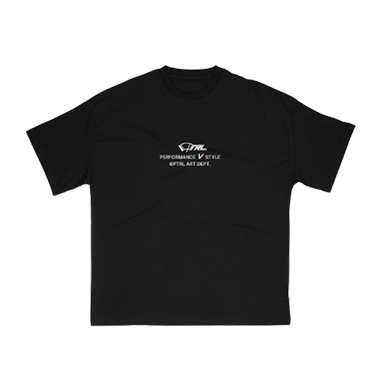
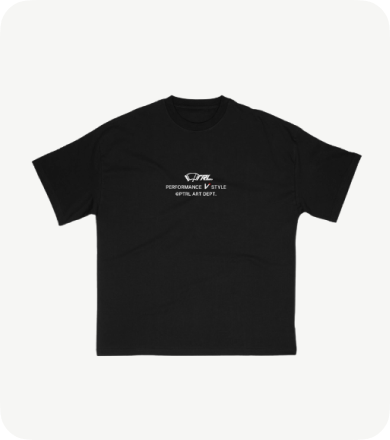
fix: product imgs and topbar padding

diff --git a/src/pages/home.tsx b/src/pages/home.tsx
@@ -1,7 +1,7 @@
 export default function HomePage() {
     return (
         <main className="">
-            <header className="flex xl:h-[740px] lg:h-[600px] md:h-[520px] h-[480px] w-full bg-cover bg-no-repeat bg-center" style={{ backgroundImage: 'url("/bg.webp")' }}></header>
+            <header className="flex 2xl:h-[60vw] xl:h-[740px] lg:h-[600px] md:h-[520px] h-[480px] w-full bg-cover bg-no-repeat bg-center" style={{ backgroundImage: 'url("/bg.webp")' }}></header>
 
             <section className="md:px-12 px-4 py-12 grid lg:grid-cols-5 md:grid-cols-4 sm:grid-cols-3 grid-cols-2 gap-4">
                 {
@@ -18,7 +18,7 @@ export default function HomePage() {
                         { id: 9, title: "Bag of variety fruits", price: "5,000", img: "/003.png"},
                     ].map(product => (
                         <div key={product.id} className="flex flex-col gap-2 mb-4">
-                            <div className="w-full h-[250px] bg-[#f6f6f4] rounded-lg bg-cover bg-center" style={{ backgroundImage: `url('${product.img}')` }}></div>
+                            <div className="w-full 2xl:h-[20vw] sm:h-[250px] h-[220px] bg-[#f6f6f4] rounded-lg bg-cover bg-center" style={{ backgroundImage: `url('${product.img}')` }}></div>
                             <p className="uppercase text-[#989898]">{product.title}</p>
                             <p className="md:text-[24px] text-[16px] tracking-[1%] ">{product.price} NGN</p>
                         </div> 

diff --git a/src/components/footer.tsx b/src/components/footer.tsx
@@ -7,12 +7,12 @@ export default function Footer() {
 
             <div className="flex flex-col gap-4 py-8 uppercase text-[#989898]">
                 <p>Late nights, big dreams, and an unshakable vision.</p>
-                <p>that&apos;s how we built ptrl - a lagos-born streetwear brand built for the bold, the relentless, the ones who move different.</p>
+                <p>that&apos;s how we built <span className="text-[#c22026]">ptrl</span> - a lagos-born streetwear brand built for the bold, the relentless, the ones who move different.</p>
                 <p>never follow. never settle. the mision is to redefine style with a mix of performance, culture, and raw energy.</p>
                 <p>if you came for the hpye, you&apos;ll stay for the quality</p>
                 <p>We don&apos;t just make clothes. we make statements</p>
             </div>
-            
+
             <div className="flex flex-col gap-4">
                 <p className="text-[#000]">&copy; {new Date().getFullYear()}, PTRL</p>
                 <div className="flex items-center gap-6 text-[#C22026] uppercase">

diff --git a/src/components/topbar.tsx b/src/components/topbar.tsx
@@ -7,7 +7,7 @@ export default function Topbar() {
                 <Slider />
             </div>
 
-            <div className="grid grid-cols-3 md:px-12 px-4 py-6">
+            <div className="grid grid-cols-3 md:px-12 px-4 md:py-6 py-3">
                 <span></span>
                 <div className="flex justify-center">
                     <img src="/logo.webp" width={150} height={40} alt="cart" />

diff --git a/src/App.tsx b/src/App.tsx
@@ -7,7 +7,7 @@ function App() {
 
   return (
     <BrowserRouter>
-      <div className='md:text-[24px] text-[16px] md:leading-[36px] leading-[24px] tracking-[1%] '>
+      <div className='2xl:text-[32px] md:text-[24px] text-[16px] md:leading-[36px] leading-[24px] tracking-[1%] '>
         <Topbar />
         <Routes>
           <Route path="/" element={<HomePage />} />
